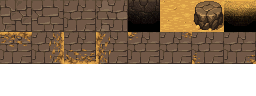
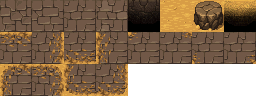
Updated floor tiles.

Changed region(s): [[0.0, 0.6562, 0.5, 1.0]]

diff --git a/src/main/java/com/domain/reckless/game/StrategyDrivenGameContext.java b/src/main/java/com/domain/reckless/game/StrategyDrivenGameContext.java
@@ -92,13 +92,13 @@ public class StrategyDrivenGameContext implements GameContext {
                 {1, 1, 1, 3, 0, 0, 0, 0, 0, 0, 0, 0, 0, 2, 1, 1, 1, 3, 0, 0, 0, 0, 0, 0, 0, 0, 0, 0, 2, 1, 1, 1},
                 {1, 1, 1, 3, 0, 0, 0, 0, 0, 0, 0, 0, 0, 2, 1, 1, 1, 3, 0, 0, 0, 0, 0, 0, 0, 0, 0, 0, 2, 1, 1, 1},
                 {1, 1, 1, 3, 0, 0, 0, 0, 0, 0, 0, 0, 0, 2, 1, 1, 1, 3, 0, 0, 0, 0, 0, 0, 0, 0, 0, 0, 2, 1, 1, 1},
-                {1, 1, 1, 3, 0, 0, 0, 0, 0, 0, 0, 0, 9, 1, 1, 1, 1, 1, 8, 0, 0, 0, 0, 0, 0, 0, 0, 0, 2, 1, 1, 1},
+                {1, 1, 1, 3, 0, 0, 0, 0, 0, 0, 0, 0,10, 9, 1, 1, 1, 8,11, 0, 0, 0, 0, 0, 0, 0, 0, 0, 2, 1, 1, 1},
                 {1, 1, 1, 3, 0, 0, 0, 0, 0, 0, 0, 0, 2, 1, 1, 1, 1, 1, 3, 0, 0, 0, 0, 0, 0, 0, 0, 0, 2, 1, 1, 1},
                 {1, 1, 1, 3, 0, 0, 0, 0, 0, 0, 0, 0, 2, 1, 1, 1, 1, 1, 3, 0, 0, 0, 0, 0, 0, 0, 0, 0, 2, 1, 1, 1},
                 {1, 1, 1, 3, 0, 0, 0, 0, 0, 0, 0, 0, 2, 1, 1, 1, 1, 1, 3, 0, 0, 0, 0, 0, 0, 0, 0, 0, 2, 1, 1, 1},
                 {1, 1, 1, 3, 0, 0, 0, 0, 0, 0, 0, 0, 2, 1, 1, 1, 1, 1, 3, 0, 0, 0, 0, 0, 0, 0, 0, 0, 2, 1, 1, 1},
                 {1, 1, 1, 3, 0, 0, 0, 0, 0, 0, 0, 0, 2, 1, 1, 1, 1, 1, 3, 0, 0, 0, 0, 0, 0, 0, 0, 0, 2, 1, 1, 1},
-                {1, 1, 1, 3, 0, 0, 0, 0, 0, 0, 0, 0, 7, 4, 4, 4, 4, 4, 6, 0, 0, 0, 0, 0, 0, 0, 0, 0, 2, 1, 1, 1},
+                {1, 1, 1, 3, 0, 0, 0, 0, 0, 0, 0, 0,12, 4, 4, 4, 4, 4,13, 0, 0, 0, 0, 0, 0, 0, 0, 0, 2, 1, 1, 1},
                 {1, 1, 1, 3, 0, 0, 0, 0, 0, 0, 0, 0, 0, 0, 0, 0, 0, 0, 0, 0, 0, 0, 0, 0, 0, 0, 0, 0, 2, 1, 1, 1},
                 {1, 1, 1, 3, 0, 0, 0, 0, 0, 0, 0, 0, 0, 0, 0, 0, 0, 0, 0, 0, 0, 0, 0, 0, 0, 0, 0, 0, 2, 1, 1, 1},
                 {1, 1, 1, 3, 0, 0, 0, 0, 0, 0, 0, 0, 0, 0, 0, 0, 0, 0, 0, 0, 0, 0, 0, 0, 0, 0, 0, 0, 2, 1, 1, 1},
@@ -125,6 +125,10 @@ public class StrategyDrivenGameContext implements GameContext {
                 Assets.Bitmaps.floorTiles[1][6],
                 Assets.Bitmaps.floorTiles[1][5],
                 Assets.Bitmaps.floorTiles[1][4],
+                Assets.Bitmaps.floorTiles[2][0],
+                Assets.Bitmaps.floorTiles[2][1],
+                Assets.Bitmaps.floorTiles[2][2],
+                Assets.Bitmaps.floorTiles[2][3],
         };
 
         for (int i = 0; i < map.length; i++) {
